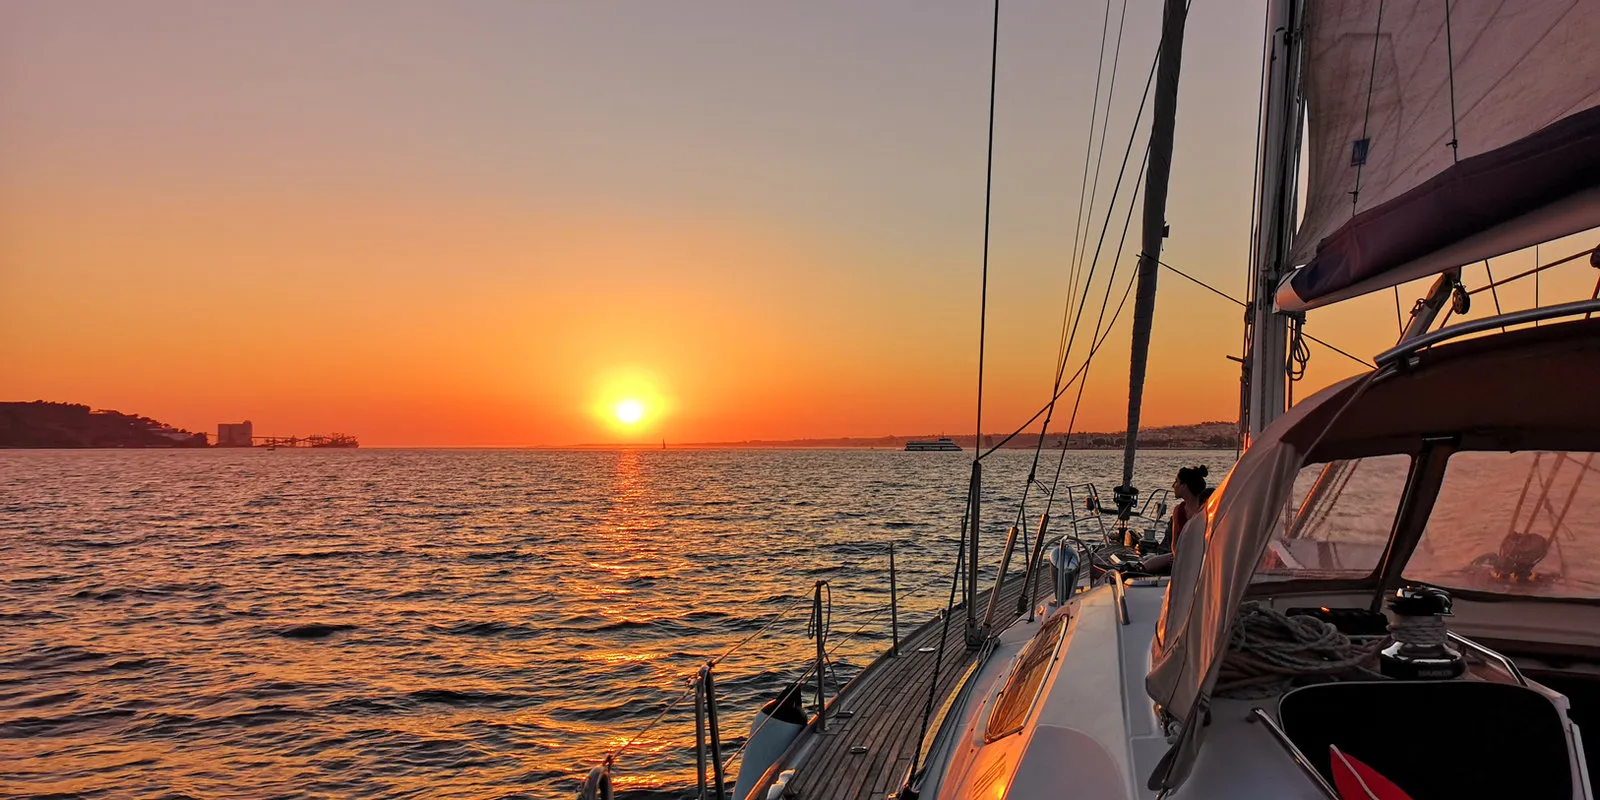
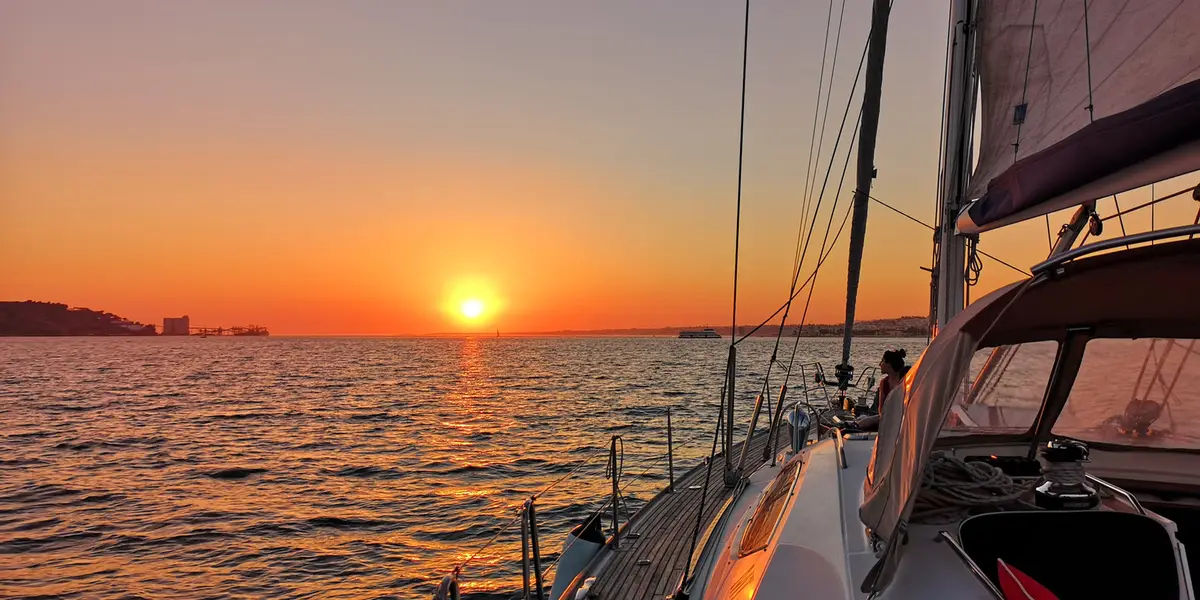
ByBoat: portada 1200x600 a 85 KB, títulos og/twitter iguales al de la página, alt desde el artículo y crédito protegido

diff --git a/src/components/blog/LisbonByBoatStory.tsx b/src/components/blog/LisbonByBoatStory.tsx
@@ -61,8 +61,8 @@ export default function LisbonByBoatStory({ article, photos, links }: Props) {
           <p className={styles.disclosure}>Colaboración comercial con Lisbon ByBoat</p>
         </header>
         <figure className={styles.hero}>
-          <Image src={photos.hero} alt="Velero navegando por el río Tajo con Lisboa al fondo" width={980} height={490} unoptimized priority sizes="(max-width: 1200px) 100vw, 1184px" />
-          <figcaption>{formatPermissionPhotoCredit(PERMISSION_PHOTO_CREDITS[photos.hero])}</figcaption>
+          <Image src={photos.hero} alt={article.imageAlt ?? article.titulo} width={980} height={490} unoptimized priority sizes="(max-width: 1200px) 100vw, 1184px" />
+          {PERMISSION_PHOTO_CREDITS[photos.hero] ? <figcaption>{formatPermissionPhotoCredit(PERMISSION_PHOTO_CREDITS[photos.hero])}</figcaption> : null}
         </figure>
         <dl className={styles.essentials} aria-label="El paseo, de un vistazo">
           {[['Duración', '120 minutos'], ['Paseos', 'De día · atardecer'], ['Incluye', '2 bebidas'], ['Tripulación', '2 personas']].map(([label, value]) => <div key={label}><dt>{label}</dt><dd>{value}</dd></div>)}

diff --git a/src/app/[locale]/blog/paseo-en-velero-lisboa-lisbon-byboat/page.tsx b/src/app/[locale]/blog/paseo-en-velero-lisboa-lisbon-byboat/page.tsx
@@ -81,19 +81,19 @@ export const metadata: Metadata = {
   alternates: { canonical: 'https://estabaenlisboa.com/blog/paseo-en-velero-lisboa-lisbon-byboat' },
   openGraph: {
     type: 'article',
-    title: 'Lisboa desde el Tajo: paseo en velero con Lisbon ByBoat',
+    title: 'Paseo en velero por el Tajo con Lisbon ByBoat',
     description: article.descripcion,
     url: 'https://estabaenlisboa.com/blog/paseo-en-velero-lisboa-lisbon-byboat',
     images: [{
       url: `https://estabaenlisboa.com${heroImage}`,
-      width: 1600,
-      height: 800,
+      width: 1200,
+      height: 600,
       alt: 'Velero de Lisbon ByBoat navegando por Lisboa y el río Tajo',
     }],
   },
   twitter: {
     card: 'summary_large_image',
-    title: 'Lisboa desde el Tajo: paseo en velero con Lisbon ByBoat',
+    title: 'Paseo en velero por el Tajo con Lisbon ByBoat',
     description: article.descripcion,
     images: [`https://estabaenlisboa.com${heroImage}`],
   },
